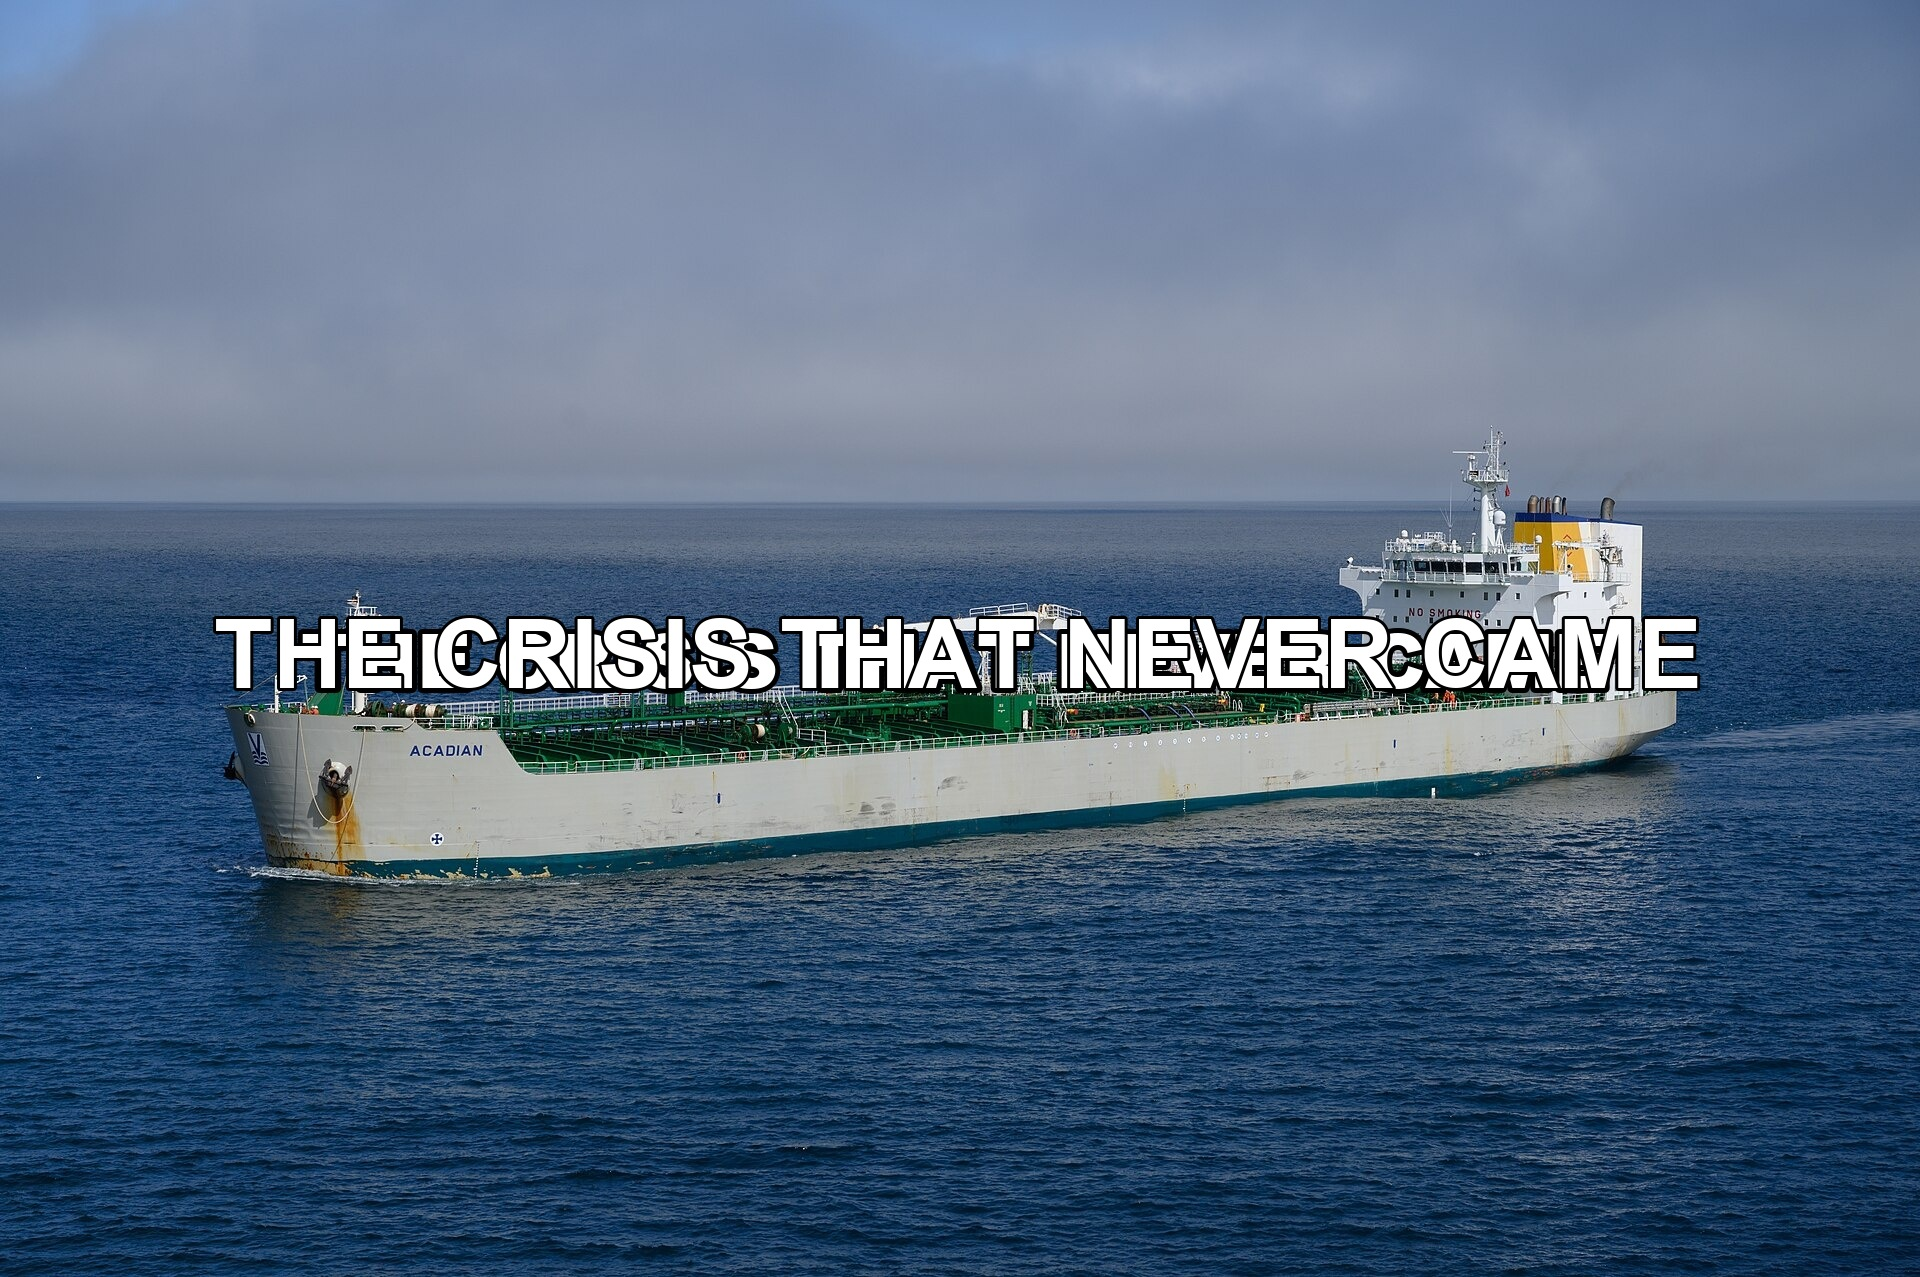
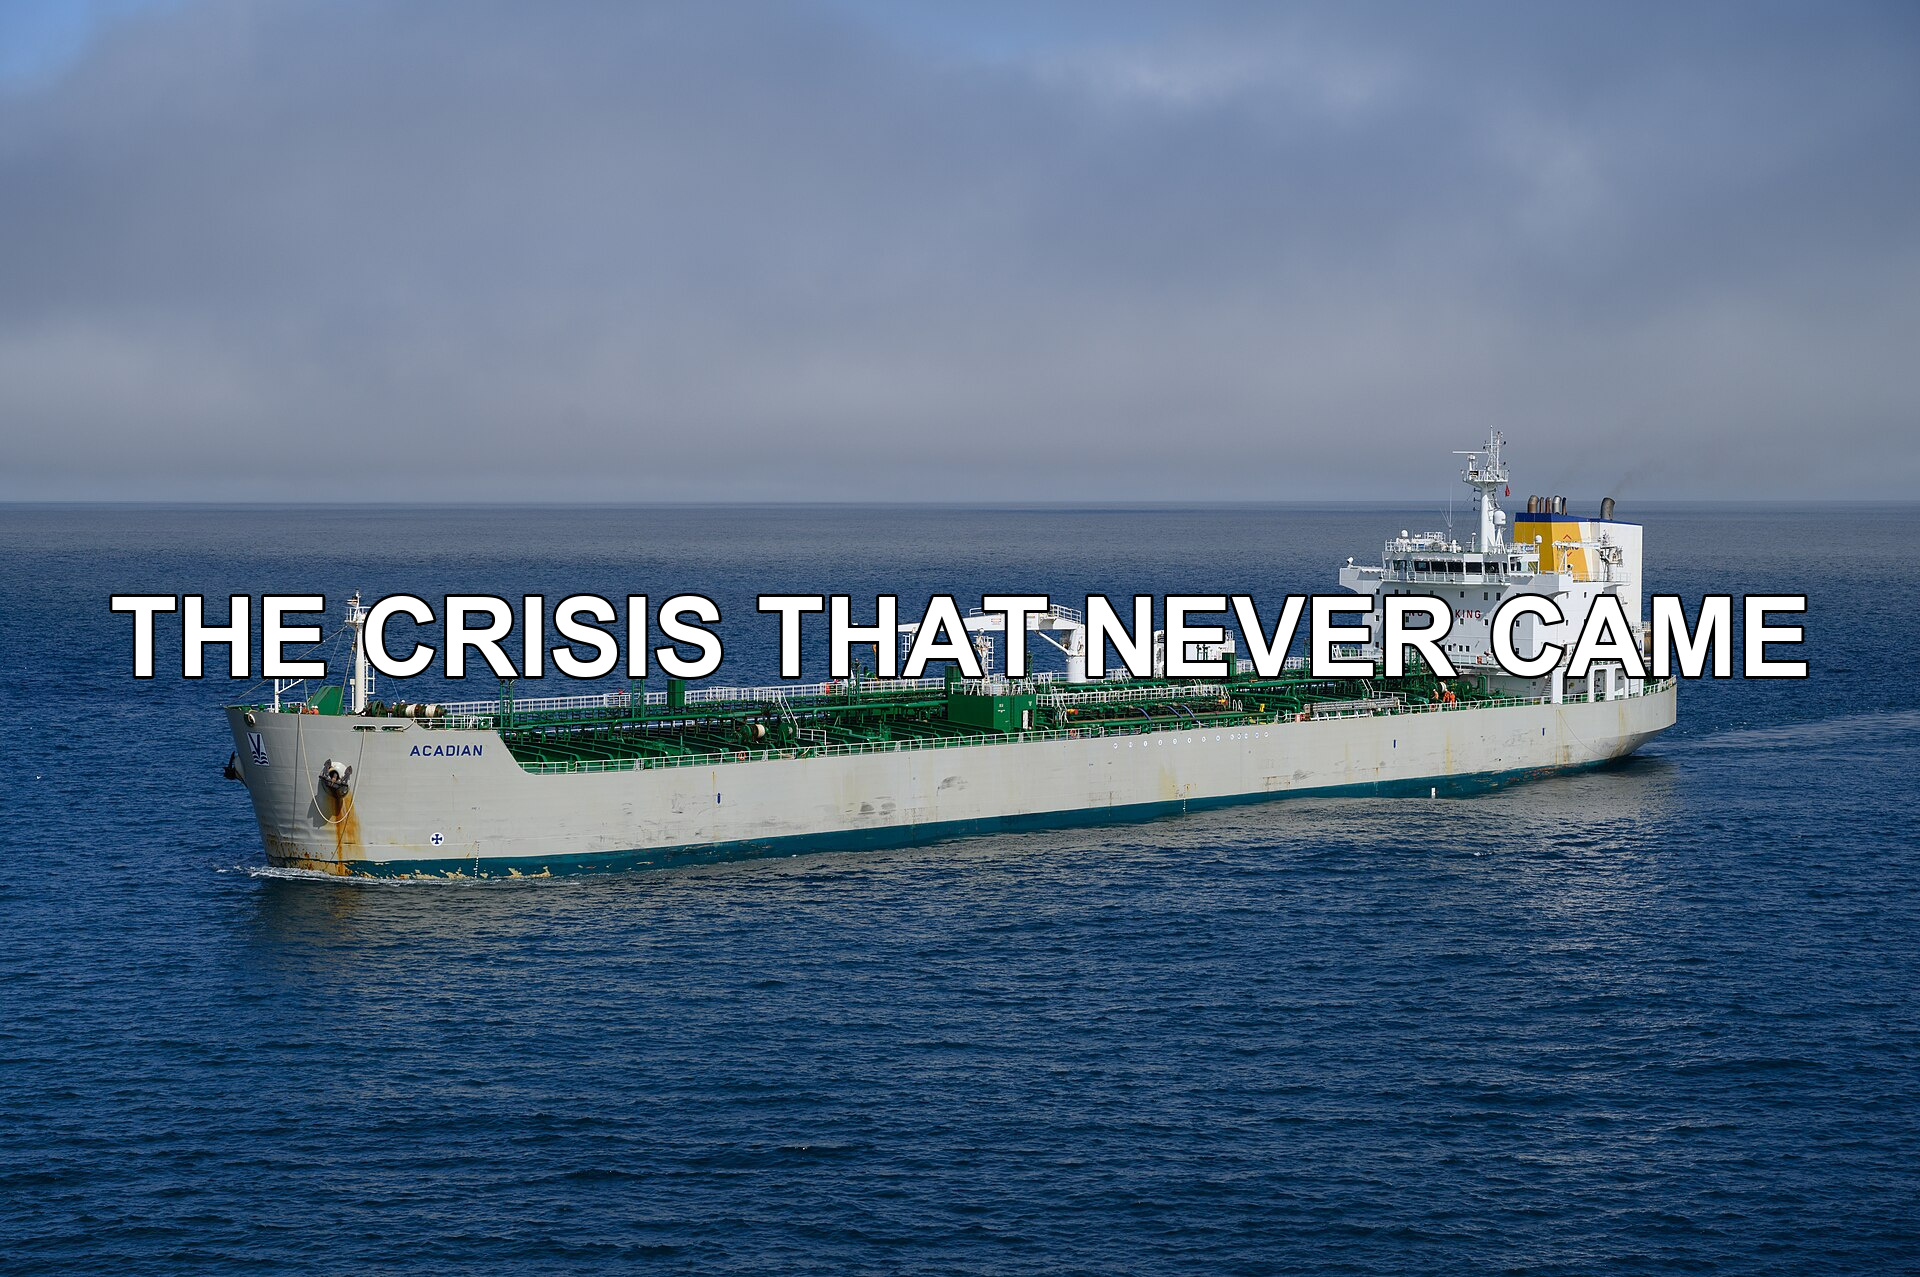
fix: china oil article preview - clean single hero overlay, remove transcript framing, dedupe read-next, face-free body frames

Changed region(s): [[0.0625, 0.4581, 0.9375, 0.5497]]

diff --git a/nextjs/public/medium/youtube-china-quietly-saved-world-bka0bkb6zo0/index.html b/nextjs/public/medium/youtube-china-quietly-saved-world-bka0bkb6zo0/index.html
@@ -83,7 +83,7 @@
 <p><em>The world prepared for a historic supply shock. The missing piece was sitting inside the biggest oil-importing country on Earth.</em></p>
 <figure><img src="/medium/youtube-china-quietly-saved-world-bka0bkb6zo0/assets/hero-overlay.jpg" alt="Oil tanker ACADIAN entering St. John&#39;s Harbor, Newfoundland. Photo: Wikimedia Commons, CC BY-SA 4.0."></figure>
 <blockquote><p>A viral video says China secretly cut its oil imports in half and single-handedly saved the world from an Iran-war oil shock. The mechanism is real; the tidy hero story is not. Here&#39;s what the primary sources actually support, what stays unproven, and why the biggest buyer&#39;s quiet moves matter more than any headline.</p></blockquote>
-<p>The transcript follows the numbers into China’s refineries. Imports were running near 11 million barrels a day before the shock, then fell by roughly half in the comparison that made the video travel. That did not mean China stopped needing oil; domestic inventories, refinery timing, alternative suppliers, and weaker demand absorbed part of the pressure.</p>
+<p>Follow the numbers into China’s refineries. Imports were running near 11 million barrels a day before the shock, then fell by roughly half in the comparison that went viral. That did not mean China stopped needing oil; domestic inventories, refinery timing, alternative suppliers, and weaker demand absorbed part of the pressure.</p>
 <p>At the start of the 2025 fighting around Iran, everyone had the same nightmare queued up. Close the Strait of Hormuz, and the world runs out of oil. Flights grounded. Cities dark. Gas tripling if you could buy any at all. The math looked airtight, and the <a href="https://www.eia.gov/todayinenergy/detail.php?id=61344" target="_blank" rel="noopener noreferrer">EIA&#39;s chokepoint analysis</a> explains why a single narrow waterway can scare an entire planet: a huge share of seaborne crude passes through it, so a credible threat to close it is a credible threat to everyone.</p>
 <p>The feared collapse did not arrive on that schedule.</p>
 <p>That&#39;s the part worth sitting with. The forecasts weren&#39;t stupid. <a href="https://www.eia.gov/todayinenergy/detail.php?id=61344" target="_blank" rel="noopener noreferrer">EIA&#39;s chokepoint analysis</a> both laid out how ugly a real closure would get, and the arithmetic held up. The world just didn&#39;t behave like the arithmetic. Prices twitched and settled. Airlines rerouted. Governments cracked open their emergency plans and the lights stayed on. A near miss still carries information, and dismissing it is how you sleepwalk into the next crisis.</p>
@@ -105,7 +105,7 @@
 <p>First, some of the room to maneuver runs through sanctioned and discounted supply. The <a href="https://www.eia.gov/international/analysis/country/IRAN" target="_blank" rel="noopener noreferrer">EIA&#39;s Iran profile</a> describes a shadow market that is, by design, hard to measure. You can&#39;t cleanly separate state direction from a trader chasing a discount, and you certainly can&#39;t audit it to the barrel.</p>
 <p>Second, resilience has a distribution problem. A manageable global average price can hide real pain — poorer importers, truckers, airlines, and households hit by local spikes and shortages. &quot;The oil shock didn&#39;t happen&quot; is too generous if it means nobody got hurt. Plenty of people did.</p>
 <p>Third, buffers buy time, and time runs out. Spare capacity is finite. If the fighting drags on, terminals fail, or insurers walk away from a route, the slack runs out. A model that only predicts the opening deficit will scream collapse too early. A model that assumes China will always cushion the market will get you killed the one time it doesn&#39;t.</p>
-<figure><img src="/medium/youtube-china-quietly-saved-world-bka0bkb6zo0/assets/body-frame-2.jpg" alt="An explainer board shows pipelines and stockpiles offsetting a supply disruption."></figure>
+<figure><img src="/medium/youtube-china-quietly-saved-world-bka0bkb6zo0/assets/body-frame-2.jpg" alt="An aerial view shows oil storage tanks and pipelines."></figure>
 <h2>What to actually watch next time</h2>
 <p>When the next energy panic goes viral, ignore the first scary number and track four boring ones instead:</p>
 <ol>
@@ -115,11 +115,12 @@
 <li><strong>Duration.</strong> A two-week scare and a six-month blockade are different animals. Buffers buy time; they don&#39;t repeal geography.</li>
 </ol>
 <p>The lesson isn&#39;t that geopolitics went soft. It&#39;s that resilience usually arrives through moves too dull to make the edit: a refinery postpones a purchase, a state trader releases stock, a ship changes heading, a government swallows an awkward cargo. The story looked like it was about a narrow waterway. It was really about who had room to move — and how little of that room ever makes it into the narration.</p>
-<p>China had room. Whether it chose to spend it to save you, to prove a point, or just to protect its own factories, nobody outside a few rooms in Beijing can tell you with confidence. So don&#39;t let anyone try. For a useful next read, try <a href="https://medium.com/@max.petrusenko/the-tournament-that-made-cooperation-look-like-a-cosmic-filter-74f94b7f5667" target="_blank" rel="noopener noreferrer">The Tournament That Made Cooperation Look Like a Cosmic Filter</a>, another piece about how large systems produce results nobody planned.</p>
+<p>China had room. Whether it chose to spend it to save you, to prove a point, or just to protect its own factories, nobody outside a few rooms in Beijing can tell you with confidence. So don&#39;t let anyone try.</p>
 <h2>Sources</h2>
 <p><a href="https://www.eia.gov/todayinenergy/detail.php?id=61344" target="_blank" rel="noopener noreferrer">EIA&#39;s chokepoint analysis</a> | <a href="https://www.eia.gov/international/analysis/country/CHN" target="_blank" rel="noopener noreferrer">U.S. EIA&#39;s China profile</a> | <a href="https://www.energy.gov/ceser/strategic-petroleum-reserve" target="_blank" rel="noopener noreferrer">Strategic Petroleum Reserve</a></p>
 <h2>About the author</h2>
 <p>Max Petrusenko writes about technology, science, culture, and the systems that shape everyday life. Read more at <a href="https://www.maxpetrusenko.com/" target="_blank" rel="noopener noreferrer">maxpetrusenko.com</a> and <a href="https://medium.com/@max.petrusenko" target="_blank" rel="noopener noreferrer">Medium</a>.</p>
+<p><strong>Read next →</strong> <a href="https://medium.com/@max.petrusenko/the-tournament-that-made-cooperation-look-like-a-cosmic-filter-74f94b7f5667" target="_blank" rel="noopener noreferrer">The Tournament That Made Cooperation Look Like a Cosmic Filter</a></p>
   </main>
 </body>
 </html>
